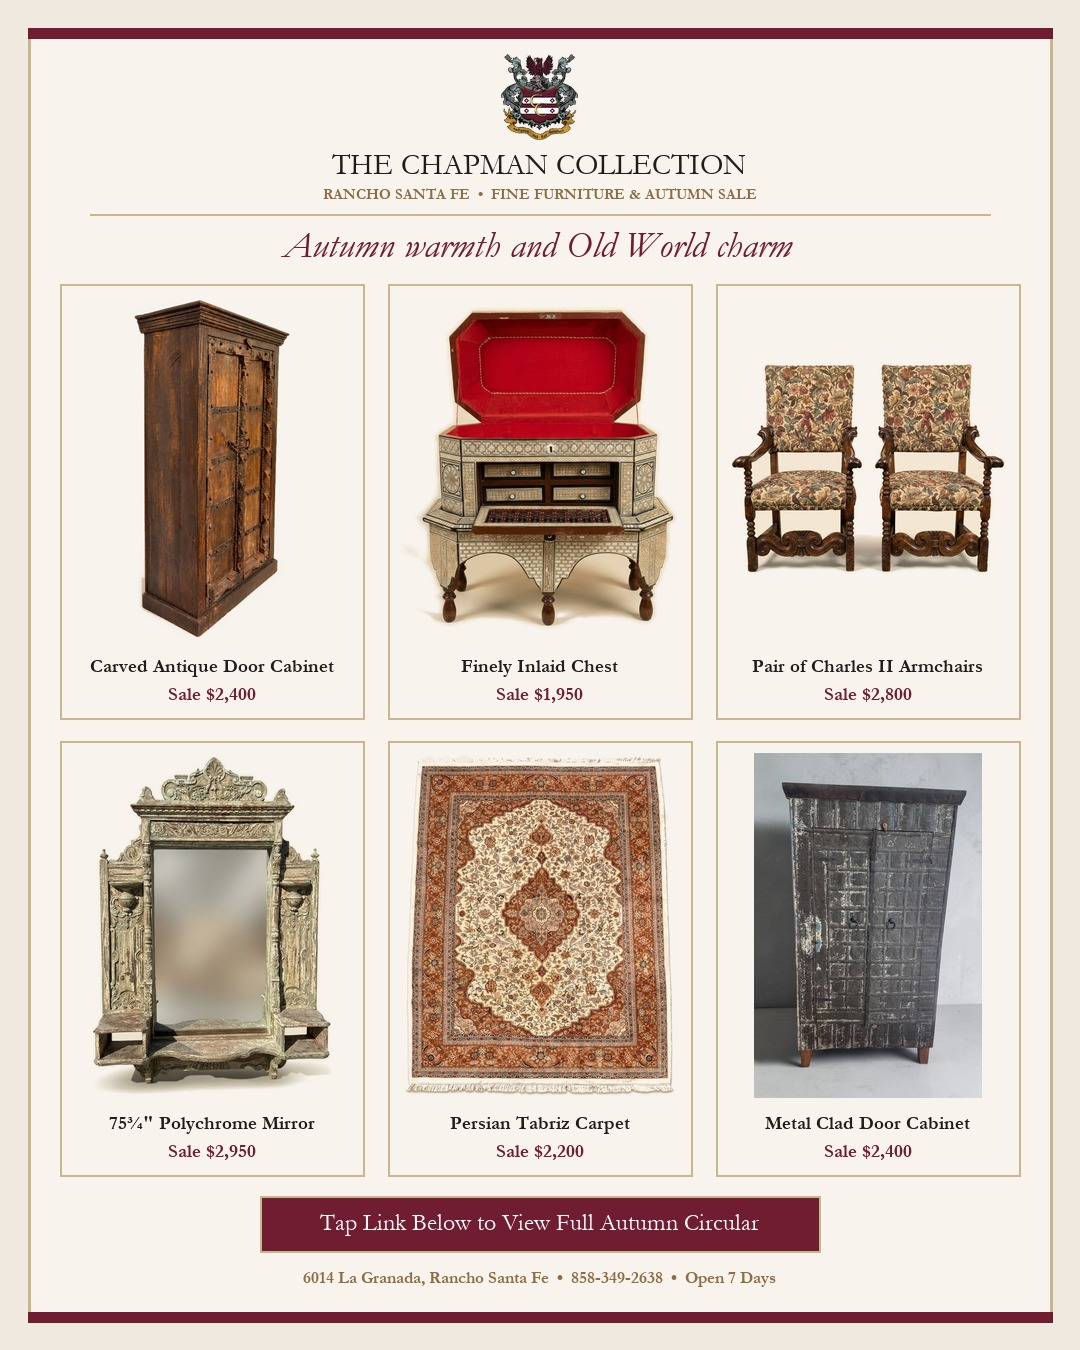
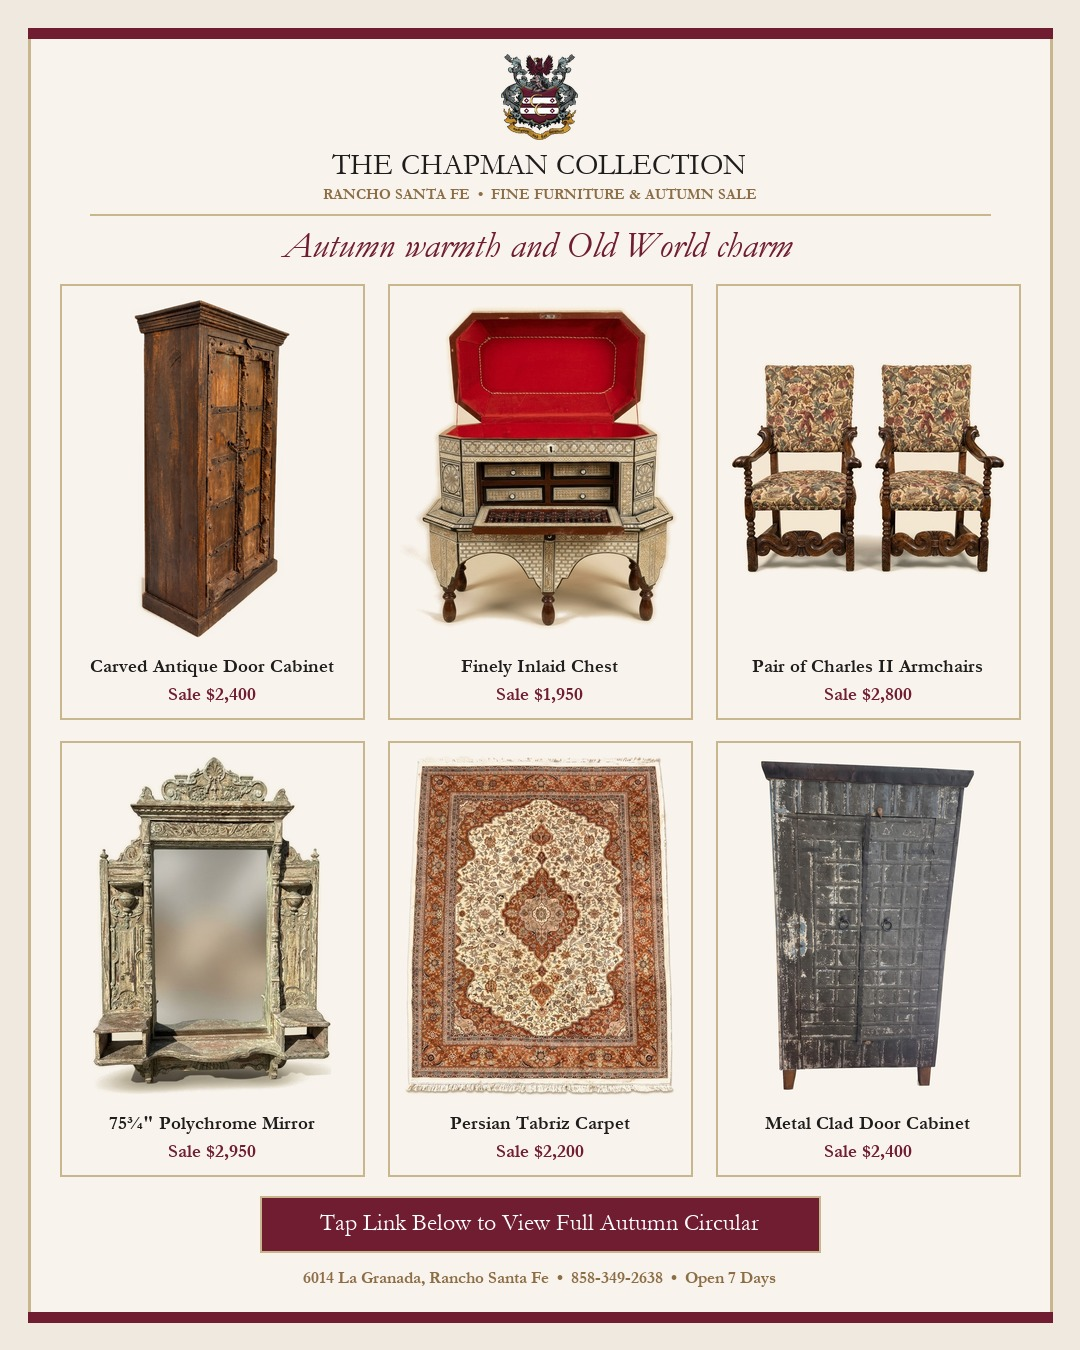
Update MMS bento card, animated GIF, and SMS preview HTML with shadowless parchment cabinet

Changed region(s): [[0.6722, 0.56, 0.9167, 0.84]]

diff --git a/drafts-for-pmc-approval/2026-10-27-autumn-warmth-and-old-world-peculiars/sms-autumn-warmth-and-old-world-peculiars.html b/drafts-for-pmc-approval/2026-10-27-autumn-warmth-and-old-world-peculiars/sms-autumn-warmth-and-old-world-peculiars.html
@@ -378,10 +378,8 @@
 
           <!-- Dynamic Personalized SMS Text Bubble -->
           <div class="sms-text-bubble" id="live-sms-bubble">
-            Hi <span id="preview-fname">Victoria</span>, a quick look at our Old World antique door cabinets, Antique English Charles II style armchairs, a finely inlaid chest, a 75&Prime; carved mirror and fine Persian carpets just placed on sale at The Chapman Collection. Tap below to browse, or reply if you would like further details:<br><br>
-            <a href="https://thechapmancollection.com/" target="_blank">https://thechapmancollection.com/</a><br><br>
-            Warmly, Melissa Chapman<br>
-            <span style="font-size: 11.5px; color: #636366;">Reply STOP to opt out</span>
+            Hi <span id="preview-fname">Melissa</span>, delighted to share our Old World cabinets and new autumn sale arrivals: <a href="https://thechapmancollection.com/" target="_blank">https://thechapmancollection.com/</a><br>
+            Warmly, Melissa. Reply STOP to opt-out
           </div>
 
           <!-- Rich Link Preview Card (OpenGraph Unfurl) -->
@@ -411,21 +409,16 @@
 
     <div class="dynamic-tester">
       <label for="fname-input">Test Dynamic First Name (<code>[[contact.first_name]]</code>):</label>
-      <input type="text" id="fname-input" value="Victoria" oninput="updateFirstName(this.value)" placeholder="Enter client name...">
+      <input type="text" id="fname-input" value="Melissa" oninput="updateFirstName(this.value)" placeholder="Enter client name...">
       <button class="btn secondary" onclick="document.getElementById('fname-input').value='there';updateFirstName('there');">Test Fallback ("there")</button>
     </div>
 
     <div class="card-box">
-      <h3>Option 1: VIP Visual MMS + Dynamic Personalization (Recommended)</h3>
+      <h3>Option 1: Single-Segment 160-Char VIP MMS + Dynamic Name (Recommended)</h3>
       <p style="margin: 0 0 8px 0; font-size: 15px; color: #3D3935;">
-        Pairs the 6-piece compilation image (or 4-slide animated GIF) with a warm, concise note in Melissa's voice (zero dashes, no Oxford comma):
+        Matches the exact concise 1-segment SMS cadence approved on Thursday afternoon (156 characters total including opt-out, pairing the 4-frame animated GIF with direct domain delivery):
       </p>
-      <div class="code-block" id="omnisend-copy-1">Hi [[contact.first_name | default: 'there']], a quick look at our Old World antique door cabinets, Antique English Charles II style armchairs, a finely inlaid chest, a 75" carved mirror and fine Persian carpets just placed on sale at The Chapman Collection. Tap below to browse, or reply if you would like further details:
-
-https://thechapmancollection.com/
-
-Warmly, Melissa Chapman
-Reply STOP to opt out</div>
+      <div class="code-block" id="omnisend-copy-1">Hi [[contact.first_name | default: 'there']], delighted to share our Old World cabinets and new autumn sale arrivals: https://thechapmancollection.com/ Warmly, Melissa.</div>
       <div class="btn-row">
         <button class="btn" onclick="copyText('omnisend-copy-1', this)">Copy Omnisend MMS Text</button>
         <a class="btn secondary" href="2026-10-27-autumn-warmth-and-old-world-peculiars/cuts/tcc-oct27-mms-dynamic-showcase.gif" download>Download Animated MMS (.GIF)</a>
@@ -434,18 +427,17 @@ Reply STOP to opt out</div>
     </div>
 
     <div class="card-box">
-      <h3>Option 2: Ultra-Short VIP Text Linking to The Chapman Collection</h3>
+      <h3>Option 2: Expanded Two-Sentence VIP Text</h3>
       <p style="margin: 0 0 8px 0; font-size: 15px; color: #3D3935;">
-        Sends a crisp two-sentence text whose link automatically unfurls into the rich preview banner on iMessage and Google Messages:
+        Longer two-segment alternative listing each featured category explicitly:
       </p>
-      <div class="code-block" id="omnisend-copy-2">Hi [[contact.first_name | default: 'there']], we just shared our new autumn sale showcase featuring Old World antique door cabinets, Antique English Charles II style armchairs, a finely inlaid chest, a 75" carved mirror and fine Persian carpets. Take a look here or reply if anything catches your eye:
+      <div class="code-block" id="omnisend-copy-2">Hi [[contact.first_name | default: 'there']], delighted to share our Old World antique door cabinets, Antique English Charles II style armchairs, a finely inlaid chest, a 75" carved mirror and fine Persian carpets on sale:
 
 https://thechapmancollection.com/
 
-Warmly, Melissa Chapman
-Reply STOP to opt out</div>
+Warmly, Melissa.</div>
       <div class="btn-row">
-        <button class="btn" onclick="copyText('omnisend-copy-2', this)">Copy Short VIP SMS</button>
+        <button class="btn" onclick="copyText('omnisend-copy-2', this)">Copy Expanded VIP SMS</button>
         <a class="btn secondary" href="autumn-warmth-and-old-world-peculiars.html">Open Full HTML Circular &rarr;</a>
       </div>
     </div>

diff --git a/drafts-for-pmc-approval/sms-autumn-warmth-and-old-world-peculiars.html b/drafts-for-pmc-approval/sms-autumn-warmth-and-old-world-peculiars.html
@@ -378,10 +378,8 @@
 
           <!-- Dynamic Personalized SMS Text Bubble -->
           <div class="sms-text-bubble" id="live-sms-bubble">
-            Hi <span id="preview-fname">Victoria</span>, a quick look at our Old World antique door cabinets, Antique English Charles II style armchairs, a finely inlaid chest, a 75&Prime; carved mirror and fine Persian carpets just placed on sale at The Chapman Collection. Tap below to browse, or reply if you would like further details:<br><br>
-            <a href="https://thechapmancollection.com/" target="_blank">https://thechapmancollection.com/</a><br><br>
-            Warmly, Melissa Chapman<br>
-            <span style="font-size: 11.5px; color: #636366;">Reply STOP to opt out</span>
+            Hi <span id="preview-fname">Melissa</span>, delighted to share our Old World cabinets and new autumn sale arrivals: <a href="https://thechapmancollection.com/" target="_blank">https://thechapmancollection.com/</a><br>
+            Warmly, Melissa. Reply STOP to opt-out
           </div>
 
           <!-- Rich Link Preview Card (OpenGraph Unfurl) -->
@@ -411,21 +409,16 @@
 
     <div class="dynamic-tester">
       <label for="fname-input">Test Dynamic First Name (<code>[[contact.first_name]]</code>):</label>
-      <input type="text" id="fname-input" value="Victoria" oninput="updateFirstName(this.value)" placeholder="Enter client name...">
+      <input type="text" id="fname-input" value="Melissa" oninput="updateFirstName(this.value)" placeholder="Enter client name...">
       <button class="btn secondary" onclick="document.getElementById('fname-input').value='there';updateFirstName('there');">Test Fallback ("there")</button>
     </div>
 
     <div class="card-box">
-      <h3>Option 1: VIP Visual MMS + Dynamic Personalization (Recommended)</h3>
+      <h3>Option 1: Single-Segment 160-Char VIP MMS + Dynamic Name (Recommended)</h3>
       <p style="margin: 0 0 8px 0; font-size: 15px; color: #3D3935;">
-        Pairs the 6-piece compilation image (or 4-slide animated GIF) with a warm, concise note in Melissa's voice (zero dashes, no Oxford comma):
+        Matches the exact concise 1-segment SMS cadence approved on Thursday afternoon (156 characters total including opt-out, pairing the 4-frame animated GIF with direct domain delivery):
       </p>
-      <div class="code-block" id="omnisend-copy-1">Hi [[contact.first_name | default: 'there']], a quick look at our Old World antique door cabinets, Antique English Charles II style armchairs, a finely inlaid chest, a 75" carved mirror and fine Persian carpets just placed on sale at The Chapman Collection. Tap below to browse, or reply if you would like further details:
-
-https://thechapmancollection.com/
-
-Warmly, Melissa Chapman
-Reply STOP to opt out</div>
+      <div class="code-block" id="omnisend-copy-1">Hi [[contact.first_name | default: 'there']], delighted to share our Old World cabinets and new autumn sale arrivals: https://thechapmancollection.com/ Warmly, Melissa.</div>
       <div class="btn-row">
         <button class="btn" onclick="copyText('omnisend-copy-1', this)">Copy Omnisend MMS Text</button>
         <a class="btn secondary" href="2026-10-27-autumn-warmth-and-old-world-peculiars/cuts/tcc-oct27-mms-dynamic-showcase.gif" download>Download Animated MMS (.GIF)</a>
@@ -434,18 +427,17 @@ Reply STOP to opt out</div>
     </div>
 
     <div class="card-box">
-      <h3>Option 2: Ultra-Short VIP Text Linking to The Chapman Collection</h3>
+      <h3>Option 2: Expanded Two-Sentence VIP Text</h3>
       <p style="margin: 0 0 8px 0; font-size: 15px; color: #3D3935;">
-        Sends a crisp two-sentence text whose link automatically unfurls into the rich preview banner on iMessage and Google Messages:
+        Longer two-segment alternative listing each featured category explicitly:
       </p>
-      <div class="code-block" id="omnisend-copy-2">Hi [[contact.first_name | default: 'there']], we just shared our new autumn sale showcase featuring Old World antique door cabinets, Antique English Charles II style armchairs, a finely inlaid chest, a 75" carved mirror and fine Persian carpets. Take a look here or reply if anything catches your eye:
+      <div class="code-block" id="omnisend-copy-2">Hi [[contact.first_name | default: 'there']], delighted to share our Old World antique door cabinets, Antique English Charles II style armchairs, a finely inlaid chest, a 75" carved mirror and fine Persian carpets on sale:
 
 https://thechapmancollection.com/
 
-Warmly, Melissa Chapman
-Reply STOP to opt out</div>
+Warmly, Melissa.</div>
       <div class="btn-row">
-        <button class="btn" onclick="copyText('omnisend-copy-2', this)">Copy Short VIP SMS</button>
+        <button class="btn" onclick="copyText('omnisend-copy-2', this)">Copy Expanded VIP SMS</button>
         <a class="btn secondary" href="autumn-warmth-and-old-world-peculiars.html">Open Full HTML Circular &rarr;</a>
       </div>
     </div>
